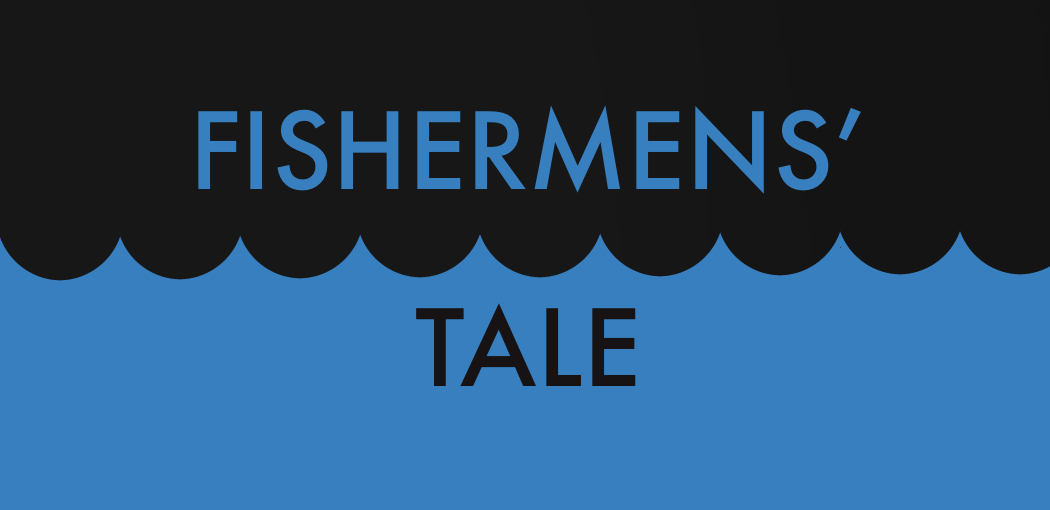
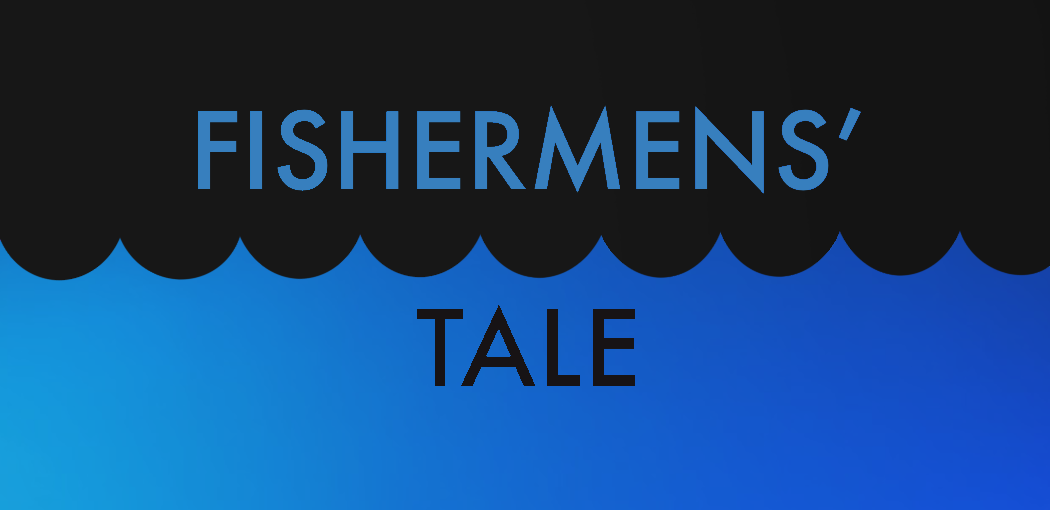
Add files via upload

diff --git a/style.css b/style.css
@@ -7,7 +7,7 @@ body {
 #headerPage {
     width:100vw; height:300px;
     background: rgb(10,52,80);
-    background: linear-gradient(0deg, rgba(10,52,80,1) 0%, rgba(9,46,71,1) 50%, rgba(7,39,61,1) 100%);
+    background: linear-gradient(0deg, rgb(12, 61, 94) 0%, rgba(9,46,71,1) 50%, rgba(7,39,61,1) 100%);
     display:flex;
     margin:0; padding:0;
     flex-direction: column;
@@ -168,8 +168,8 @@ body {
 #brainBenders2UI {right:180px;border:3px solid rgb(53, 228, 228);}
 #brainBenders3UI {border:3px solid rgb(243, 213, 42);}
 #brainBenders4UI {right:180px;border:3px solid rgb(243, 213, 42);}
-#brainBenders5UI {border:3px solid rgb(206, 28, 182);}
-#brainBenders6UI {right:180px;border:3px solid rgb(206, 28, 182);}
+#brainBenders5UI {border:3px solid rgb(241, 121, 23);}
+#brainBenders6UI {right:180px;border:3px solid rgb(241, 121, 23);}
 
 .brainBenderImages {
     width:98px; height:98px;
